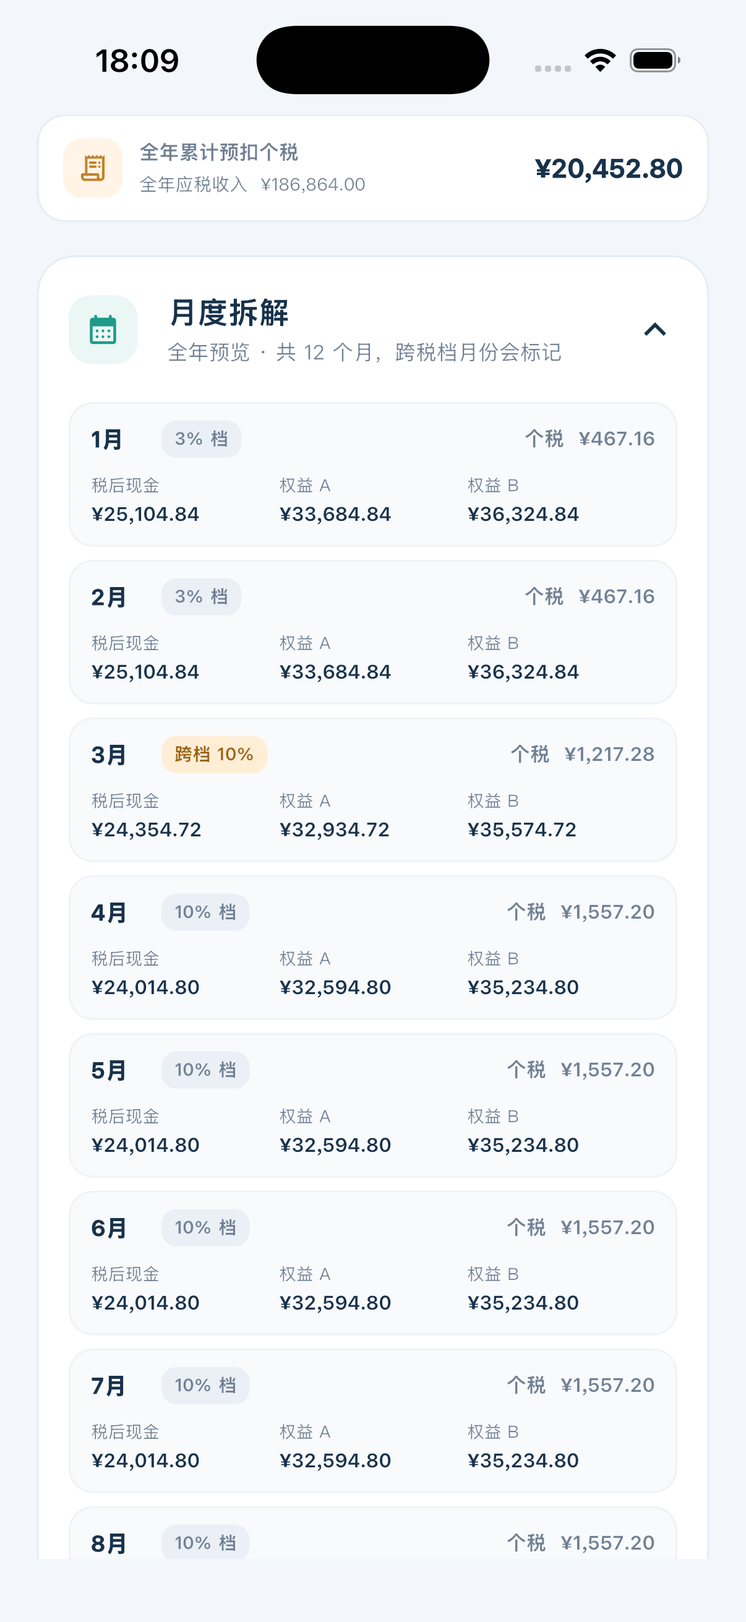
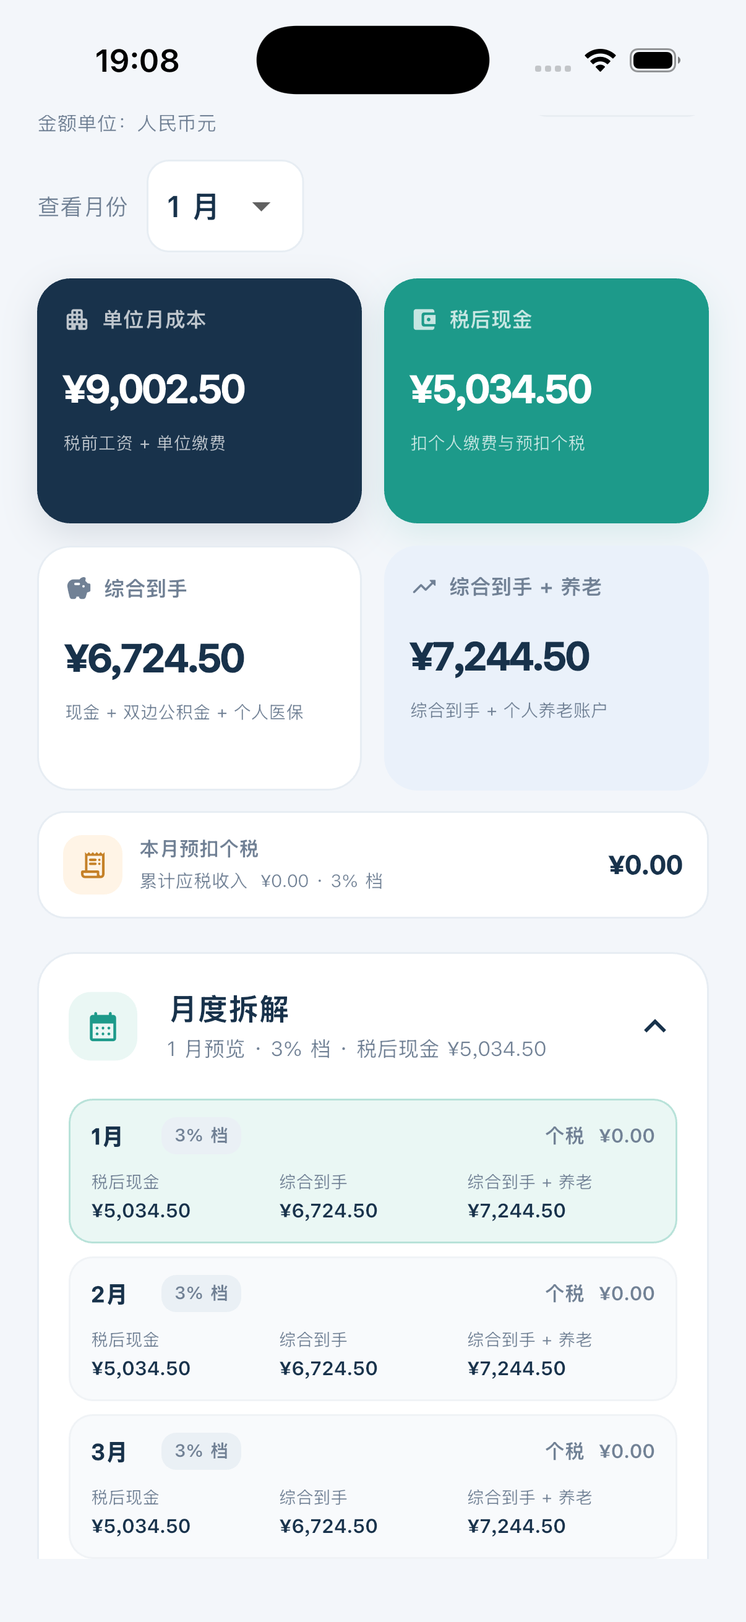
Rename annual benefit metrics

diff --git a/lib/features/calculator/calculator_screen.dart b/lib/features/calculator/calculator_screen.dart
@@ -843,7 +843,7 @@ class _CalculatorScreenState extends ConsumerState<CalculatorScreen> {
                   SizedBox(
                     width: cardWidth,
                     child: _MetricCard(
-                      label: _annualView ? '全年权益 A' : '权益 A',
+                      label: _annualView ? '全年综合到手' : '综合到手',
                       value: formatCents(benefitA),
                       icon: Icons.savings_rounded,
                       tone: _MetricTone.white,
@@ -853,11 +853,11 @@ class _CalculatorScreenState extends ConsumerState<CalculatorScreen> {
                   SizedBox(
                     width: cardWidth,
                     child: _MetricCard(
-                      label: _annualView ? '全年权益 B' : '权益 B',
+                      label: _annualView ? '全年综合到手 + 养老' : '综合到手 + 养老',
                       value: formatCents(benefitB),
                       icon: Icons.trending_up_rounded,
                       tone: _MetricTone.blue,
-                      helper: '权益 A + 个人养老账户',
+                      helper: '综合到手 + 个人养老账户',
                     ),
                   ),
                 ],
@@ -983,7 +983,7 @@ class _CalculatorScreenState extends ConsumerState<CalculatorScreen> {
             style: TextStyle(color: _navy, fontWeight: FontWeight.w700),
           ),
           subtitle: Text(
-            '${annual ? '全年合计' : '$_month 月'} · 费率与权益组成',
+            '${annual ? '全年合计' : '$_month 月'} · 费率与综合到手组成',
             style: const TextStyle(color: _muted, fontSize: 11),
           ),
           children: <Widget>[
@@ -1097,7 +1097,7 @@ class _CalculatorScreenState extends ConsumerState<CalculatorScreen> {
             ),
             const SizedBox(height: 15),
             _DetailGroup(
-              title: '权益组成',
+              title: '综合到手组成',
               rows: <_DetailLine>[
                 _DetailLine(
                   '个人养老保险 · 8%',
@@ -1144,7 +1144,7 @@ class _CalculatorScreenState extends ConsumerState<CalculatorScreen> {
                       : formatRate(month.taxBracketRateBps),
                 ),
                 _DetailLine(
-                  '权益 A',
+                  '综合到手',
                   amount(result.annualBenefitACents, month.benefitACents),
                   strong: true,
                 ),
@@ -1156,7 +1156,7 @@ class _CalculatorScreenState extends ConsumerState<CalculatorScreen> {
                   ),
                 ),
                 _DetailLine(
-                  '权益 B',
+                  '综合到手 + 养老',
                   amount(result.annualBenefitBCents, month.benefitBCents),
                   strong: true,
                 ),
@@ -1584,13 +1584,13 @@ class _MonthRow extends StatelessWidget {
                   ),
                   Expanded(
                     child: _MiniAmount(
-                      label: '权益 A',
+                      label: '综合到手',
                       value: formatCents(month.benefitACents),
                     ),
                   ),
                   Expanded(
                     child: _MiniAmount(
-                      label: '权益 B',
+                      label: '综合到手 + 养老',
                       value: formatCents(month.benefitBCents),
                     ),
                   ),

diff --git a/lib/features/calculator/saved_calculation_detail_screen.dart b/lib/features/calculator/saved_calculation_detail_screen.dart
@@ -44,12 +44,12 @@ class SavedCalculationDetailScreen extends StatelessWidget {
             ),
             const SizedBox(height: 10),
             _SummaryCard(
-              title: '全年权益 A',
+              title: '全年综合到手',
               value: formatCents(calculation.annualBenefitACents),
             ),
             const SizedBox(height: 10),
             _SummaryCard(
-              title: '全年权益 B',
+              title: '全年综合到手 + 养老',
               value: formatCents(calculation.annualBenefitBCents),
             ),
             const SizedBox(height: 12),
@@ -120,7 +120,7 @@ class SavedCalculationDetailScreen extends StatelessWidget {
             ),
             const SizedBox(height: 14),
             const Text(
-              '结果为保存时的快照，不会随当前测算参数变化。费率和当地缴费上下限可能造成实际差异。',
+              '综合到手 = 税后现金 + 双边公积金 + 个人医保入账；“+ 养老”再计入个人养老账户。这里包含账户缴存，不等于全部可立即支取。结果是保存时的快照；费率和当地缴费上下限可能造成实际差异。',
               style: TextStyle(color: _detailMuted, fontSize: 11, height: 1.5),
             ),
           ],

diff --git a/lib/features/calculator/calculation_history_screen.dart b/lib/features/calculator/calculation_history_screen.dart
@@ -198,12 +198,12 @@ class _HistoryCard extends StatelessWidget {
                 crossAxisAlignment: CrossAxisAlignment.end,
                 children: <Widget>[
                   const Text(
-                    '全年税后现金',
+                    '全年综合到手',
                     style: TextStyle(color: _historyMuted, fontSize: 10),
                   ),
                   const SizedBox(height: 2),
                   Text(
-                    formatCents(calculation.annualNetCashCents),
+                    formatCents(calculation.annualBenefitACents),
                     style: const TextStyle(
                       color: _historyTeal,
                       fontSize: 12,

diff --git a/doc/薪酬测算Flutter研发实现文档.md b/doc/薪酬测算Flutter研发实现文档.md
@@ -12,7 +12,7 @@
 
 ## 2. 研发目标
 
-交付一个离线薪酬计算器：内置默认参数，支持编辑月工资、专项附加扣除、社保基数、公积金比例和工伤保险费率；按累计预扣法计算 12 个月个税；展示单位成本、税后现金、权益 A 和权益 B。
+交付一个离线薪酬计算器：内置默认参数，支持编辑月工资、专项附加扣除、社保基数、公积金比例和工伤保险费率；按累计预扣法计算 12 个月个税；展示单位成本、税后现金、综合到手和综合到手 + 养老。
 
 计算核心必须与 Flutter UI 解耦，使用定点金额运算，结果能从输入参数和规则版本重新计算。首版不接服务端，不实现账号、多方案或地区费率管理。
 
@@ -137,7 +137,7 @@
 | taxBracketRateBps / quickDeductionCents | 本月对应税档参数 |
 | cumulativeTaxDueCents / monthlyTaxCents | 累计应纳税额与当月预扣税 |
 | netCashCents | 当月税后现金 |
-| benefitACents / benefitBCents | 当月权益 A、权益 B |
+| benefitACents / benefitBCents | 当月“综合到手”和“综合到手 + 养老”结果（内部字段名保留） |
 | employerTotalCostCents | 单位月成本 |
 
 ### 6.3 CalculationResult
@@ -183,11 +183,11 @@ CalculationResult calculate(CalculatorInputs inputs, TaxAndContributionRules rul
 | 960,000 元 | 35% | 85,920 元 |
 | 无上限 | 45% | 181,920 元 |
 
-### 7.3 权益及年度汇总
+### 7.3 综合到手及年度汇总
 
-- 权益 A = 税后现金 + 单位公积金 + 个人公积金 + 个人医疗缴费金额。
-- 权益 B = 权益 A + 个人养老缴费金额。
-- 单位成本、税后现金、权益 A、权益 B 的全年值，分别为 12 个月对应结果相加。
+- 综合到手 = 税后现金 + 单位公积金 + 个人公积金 + 个人医疗缴费金额。
+- 综合到手 + 养老 = 综合到手 + 个人养老缴费金额。
+- 单位成本、税后现金、综合到手、综合到手 + 养老的全年值，分别为 12 个月对应结果相加。
 - 失业保险和大病统筹不计入权益；工伤由单位缴纳，不计入个人权益。
 
 ### 7.4 33,000 元回归基准
@@ -207,8 +207,8 @@ CalculationResult calculate(CalculatorInputs inputs, TaxAndContributionRules rul
 | 当月新增应税收入 | 15,572.00 元 |
 | 全年个税 | 20,452.80 元 |
 | 全年税后现金 | 286,411.20 元 |
-| 全年权益 A | 389,371.20 元 |
-| 全年权益 B | 421,051.20 元 |
+| 全年综合到手 | 389,371.20 元 |
+| 全年综合到手 + 养老 | 421,051.20 元 |
 
 月度税额档位应为：1–2 月 3%，3–9 月 10%，10–12 月 20%。预扣税分别见 [产品设计文档的默认演示表](薪酬测算Flutter产品设计文档.md#64-33000-元默认方案的演示基准)。
 
@@ -225,7 +225,7 @@ CalculationResult calculate(CalculatorInputs inputs, TaxAndContributionRules rul
 ### 8.1 历史测算
 
 - 使用独立的 SharedPreferences 字符串列表键 `salary_calculator.history.v1`，与当前参数设置分开保存。
-- 每条记录包含 schemaVersion、唯一 ID、保存时间、CalculatorInputs 快照、rulesVersion 及单位成本、税后现金、权益、税额和公积金年度合计。
+- 每条记录包含 schemaVersion、唯一 ID、保存时间、CalculatorInputs 快照、rulesVersion 及单位成本、税后现金、两种综合到手结果、税额和公积金年度合计。
 - App 启动时加载历史记录，跳过格式错误的单条数据并按保存时间倒序展示。
 - 保存、单条删除和清空全部均先更新界面状态，再异步写入本地；写入失败时恢复原状态并提示用户。
 - 列表中的删除按钮和“清空”入口均弹出确认框；清空完成后显示空状态。
@@ -243,7 +243,7 @@ CalculationResult calculate(CalculatorInputs inputs, TaxAndContributionRules rul
 
 计算器页面通过透明点击区域监听空白处点按，并取消当前焦点以收起键盘；输入框和按钮保留各自点击行为。
 
-首版页面包括参数卡片、四项结果卡片、全年/月份选择、可折叠的月度拆解卡片、计算依据展开区和测算说明。月度拆解在收起时展示全年或当前所选月份的摘要，展开后列出 12 个月的税额、税后现金、权益和税档；点击月份行切换到对应的月度结果。工伤保险费率在参数区提供独立百分比输入，默认 0.2%；修改后立即重算单位工伤缴费和单位总成本。专项附加扣除、公积金比例和工伤费率标题旁提供信息按钮，点按后以 Markdown 弹窗预览随包提供的国家规则文件；文档中的 http/https 链接调用系统浏览器打开。小屏两列或单列布局，所有输入控件提供语义标签。
+首版页面包括参数卡片、四项结果卡片、全年/月份选择、可折叠的月度拆解卡片、计算依据展开区和测算说明。月度拆解在收起时展示全年或当前所选月份的摘要，展开后列出 12 个月的税额、税后现金、综合到手和税档；点击月份行切换到对应的月度结果。工伤保险费率在参数区提供独立百分比输入，默认 0.2%；修改后立即重算单位工伤缴费和单位总成本。专项附加扣除、公积金比例和工伤费率标题旁提供信息按钮，点按后以 Markdown 弹窗预览随包提供的国家规则文件；文档中的 http/https 链接调用系统浏览器打开。小屏两列或单列布局，所有输入控件提供语义标签。
 
 参数卡片提供“保存本次”和“历史记录 N”两个入口；保存按钮在输入草稿无效时禁用。历史列表提供单条删除和清空全部确认，点击记录进入只读的结果概览页。
 
@@ -265,7 +265,7 @@ CalculationResult calculate(CalculatorInputs inputs, TaxAndContributionRules rul
 
 ### 11.1 计算单元测试
 
-- 17,000、20,000、30,500、33,000 元四组演示年度税额、现金、权益 A/B。
+- 17,000、20,000、30,500、33,000 元四组演示年度税额、现金、综合到手 / 综合到手 + 养老。
 - 33,000 元逐月税档、个税和年度合计。
 - 社保基数跟随工资；自定义基数低于或高于工资。
 - 公积金比例变更对个人扣款、单位成本、税额及权益的影响。
@@ -322,7 +322,7 @@ CalculationResult calculate(CalculatorInputs inputs, TaxAndContributionRules rul
 | 地区社保、公积金费率及上下限不同 | MVP 固定使用来源文档费率并展示假设；后续增加地区模板 |
 | 税务规则年度变化 | 将税表和规则版本化；正式发布前由产品确认适用年份 |
 | 源文档某列名称与数值含义不一致 | 以缴费率和逐月明细交叉校验，按第 7.4 节拆分扣款 |
-| 个人医保实际入账口径因地区不同 | 首版按个人医疗缴费金额计入权益 A，并明确这是估算口径 |
+| 个人医保实际入账口径因地区不同 | 首版按个人医疗缴费金额计入综合到手，并明确这是估算口径 |
 | 将权益误解为可支取现金 | 将现金、权益分开展示，并标注养老、公积金的流动性差异 |
 
 后续可按优先级增加地区模板和上下限、逐项专项附加扣除、逐月工资变化、奖金计算、多方案对比、导出和云同步。

diff --git a/doc/薪酬测算Flutter产品设计文档.md b/doc/薪酬测算Flutter产品设计文档.md
@@ -36,7 +36,7 @@
 
 - 默认参数开箱即用，无需注册或联网。
 - 所有主要参数可见、可修改，结果变更及时反馈。
-- 同屏展示单位成本、税后现金、权益 A、权益 B。
+- 同屏展示单位成本、税后现金、综合到手、综合到手 + 养老。
 - 提供全年累计预扣明细和可读的计算拆解。
 - 可保存当前参数及结果快照，并通过历史列表回看。
 - 33,000 元默认方案与《薪酬计算.md》的演示结果相符。
@@ -109,10 +109,10 @@
 |---|---|---|
 | 单位成本 | A + 单位社保 + 单位公积金 | 12 个月单位成本之和 |
 | 税后现金 | A - 个人扣款合计 - 当月预扣个税 | 12 个月税后现金之和 |
-| 权益 A | 税后现金 + 单位公积金 + 个人公积金 + 个人医疗缴费金额 | 12 个月权益 A 之和 |
-| 权益 B | 权益 A + 个人养老缴费金额 | 12 个月权益 B 之和 |
+| 综合到手 | 税后现金 + 单位公积金 + 个人公积金 + 个人医疗缴费金额 | 12 个月该指标之和 |
+| 综合到手 + 养老 | 综合到手 + 个人养老缴费金额 | 12 个月该指标之和 |
 
-权益 A、权益 B 是便于比较的测算口径，不代表全部金额都可立即支取。养老保险个人账户流动性较低；个人医保及公积金的实际使用、提取受政策和个人账户规则影响。
+“综合到手”和“综合到手 + 养老”是便于比较的测算口径，不代表全部金额都可立即支取。养老保险个人账户流动性较低；个人医保及公积金的实际使用、提取受政策和个人账户规则影响。
 
 ### 6.4 33,000 元默认方案的演示基准
 
@@ -124,12 +124,12 @@
 | 全年累计应纳税所得额 | 186,864 元 |
 | 全年个税 | 20,452.80 元 |
 | 全年税后现金 | 286,411.20 元 |
-| 全年权益 A | 389,371.20 元 |
-| 全年权益 B | 421,051.20 元 |
+| 全年综合到手 | 389,371.20 元 |
+| 全年综合到手 + 养老 | 421,051.20 元 |
 
 月度演示数据：
 
-| 月份 | 当月个税 | 税后现金 | 权益 A | 权益 B |
+| 月份 | 当月个税 | 税后现金 | 综合到手 | 综合到手 + 养老 |
 |---|---:|---:|---:|---:|
 | 1–2 月 | 467.16 元 | 25,104.84 元 | 33,684.84 元 | 36,324.84 元 |
 | 3 月 | 1,217.28 元 | 24,354.72 元 | 32,934.72 元 | 35,574.72 元 |
@@ -147,13 +147,13 @@ MVP 以单页计算器为主，另提供历史列表和结果概览辅助页：
 
 1. 顶部：产品名称、默认值恢复入口。
 2. 参数区：税前工资、专项附加扣除、社保基数、公积金基数、公积金比例和工伤费率；可保存本次测算并进入历史列表。
-3. 结果区：单位成本、税后现金、权益 A、权益 B 四张指标卡。
+3. 结果区：单位成本、税后现金、综合到手、综合到手 + 养老 四张指标卡。
 4. 结果范围切换：全年 / 月度；月度模式提供 1–12 月选择器。
-5. 月度拆解卡片：默认折叠，显示全年或当前所选月份的预览；展开后列出 12 个月的个税、到手现金、权益 A、权益 B 和税档。
-6. 计算依据：可展开查看单位和个人缴费、累计应税收入、税率及权益构成。
+5. 月度拆解卡片：默认折叠，显示全年或当前所选月份的预览；展开后列出 12 个月的个税、到手现金、综合到手、综合到手 + 养老 和税档。
+6. 计算依据：可展开查看单位和个人缴费、累计应税收入、税率及综合到手组成。
 7. 说明区：测算口径、地区差异和非正式工资单提示。
 
-历史列表和结果概览通过计算器页面按钮进入。列表按保存时间倒序展示工资、社保和公积金基数及全年税后现金；点击记录打开只读的结果概览页。每项支持单条删除，列表提供清空全部操作，两种删除均需用户确认。
+历史列表和结果概览通过计算器页面按钮进入。列表按保存时间倒序展示工资、社保和公积金基数及全年综合到手；点击记录打开只读的结果概览页。每项支持单条删除，列表提供清空全部操作，两种删除均需用户确认。
 
 ### 7.2 首屏层级
 
@@ -180,7 +180,7 @@ MVP 以单页计算器为主，另提供历史列表和结果概览辅助页：
 - 全年视图显示四项年度总和；月度拆解卡片可折叠或展开，折叠时显示全年预览，展开后提供 12 个月的逐月明细。
 - 月度视图显示选定月份四项指标和当月个税；折叠的月度拆解卡片预览所选月份，展开后仍可查看完整逐月列表，点击月份即可切换结果。
 - 当累计应纳税所得额跨档时，在该月标记“进入 X% 档”，并可在计算依据解释变化来源。
-- 点击权益 A 或权益 B 查看组成；权益 B 中的个人养老账户单独标出。
+- 点击“综合到手”或“综合到手 + 养老”查看组成；“综合到手 + 养老”中的个人养老账户单独标出。
 - 当社保基数不是工资全额时，在结果附近显示“自定义社保基数”提示。
 
 ## 8. 校验、提示和异常状态
@@ -207,7 +207,7 @@ MVP 以单页计算器为主，另提供历史列表和结果概览辅助页：
 
 - 首次打开即显示 33,000 元默认工资、5,000 元专项附加扣除、12% 公积金比例及跟随工资的社保基数。
 - 工资、扣除额、缴费比例、社保基数、公积金基数和工伤费率均可编辑；编辑后核心指标和逐月税额即时刷新。
-- 用户能切换全年和任一月份，看到单位成本、税后现金、权益 A、权益 B。
+- 用户能切换全年和任一月份，看到单位成本、税后现金、综合到手、综合到手 + 养老。
 - 四个规则信息按钮均打开正确的规则弹窗；Markdown 中的官方链接可打开。
 - 公积金基数默认跟随社保基数；社保基数切换工资/自定义后联动金额正确，自定义公积金基数不再联动，结果拆解显示基数和来源。
 - 有效测算可保存为历史快照；保存后从历史列表打开的结果概览与原保存参数一致，不随当前输入变化。
@@ -215,8 +215,8 @@ MVP 以单页计算器为主，另提供历史列表和结果概览辅助页：
 - 工伤保险费率默认 0.2%，用户修改后单位缴费和单位总成本即时更新；个人扣款不受影响。
 - 月度拆解卡片支持折叠和展开；折叠态按当前结果模式显示预览，展开态列出 12 个月并支持点选月份。
 - 默认方案四项全年结果符合第 6.4 节，逐月税档变化符合演示数据。
-- 计算依据能解释个人与单位缴费、累计预扣税额、权益组成。
-- 个人医保进入权益 A；个人养老账户只额外进入权益 B。
+- 计算依据能解释个人与单位缴费、累计预扣税额、综合到手组成。
+- 个人医保进入综合到手；个人养老账户只额外进入综合到手 + 养老。
 - 恢复默认、当前参数本地保存和历史快照管理可用，离线状态下功能完整。
 - 页面明确区分测算结果与正式工资单。
 

diff --git a/README.md b/README.md
@@ -27,16 +27,16 @@
 ## 功能
 
 - **即时薪酬测算**：编辑月税前工资、每月专项附加扣除、社保基数、公积金基数及缴费比例，结果随输入更新。
-- **保存历史测算**：点击“保存本次”保存当时的测算参数和结果快照；可在历史列表查看、打开独立结果概览、删除单条记录或清空全部记录。
+- **保存历史测算**：点击“保存本次”保存当时的测算参数和结果快照；历史列表显示全年综合到手，可打开独立结果概览、删除单条记录或清空全部记录。
 - **公积金基数独立设置**：默认跟随当前社保基数（社保可跟随税前工资或自定义），也可单独自定义公积金基数；页面显示联动来源和当前计算金额。
 - **自定义工伤费率**：单位工伤保险费率可编辑，默认演示值为 0.2%。
 - **国家规则速查**：专项附加扣除、公积金比例、公积金基数和工伤费率旁的信息按钮可打开 Markdown 规则说明，并通过官方链接查看完整政策。
 - **便捷键盘操作**：点击页面空白区域即可收起输入键盘。
 - **灵活设置缴费基数**：社保基数可以跟随工资，也可以自定义；应用不会自动套用地区缴费上下限。
-- **查看全年或逐月结果**：查看全年汇总或选择月份，包含个税、税后现金和权益变化；跨越个税档位的月份会特别标记。
-- **折叠月度拆解**：默认以全年或当前所选月份作为预览；展开后查看 12 个月的个税、税后现金、权益和税档，并可点选月份切换结果。
-- **拆解收入与缴费**：展开“计算依据”查看个人扣款、单位缴费、累计应税收入、预扣税额和权益组成。
-- **对比两种权益口径**：权益 A 为税后现金加双边公积金和个人医疗缴费；权益 B 再加个人养老缴费。
+- **查看全年或逐月结果**：查看全年汇总或选择月份，包含个税、税后现金和综合到手变化；跨越个税档位的月份会特别标记。
+- **折叠月度拆解**：默认以全年或当前所选月份作为预览；展开后查看 12 个月的个税、税后现金、综合到手和税档，并可点选月份切换结果。
+- **拆解收入与缴费**：展开“计算依据”查看个人扣款、单位缴费、累计应税收入、预扣税额和综合到手组成。
+- **对比两种综合口径**：综合到手包含税后现金、双边公积金和个人医保入账；综合到手 + 养老再计入个人养老账户。
 - **离线使用并保存数据**：当前参数与历史测算保存在设备本地，重新打开后仍可查看；可恢复默认参数。
 - **内置算法文档**：在应用中查看费率假设、累计预扣法、税率表、速算扣除数和适用范围。
 
@@ -51,7 +51,7 @@
 | 公积金比例 | 12%（单位和个人各缴一份） |
 | 工伤保险费率 | 默认 0.2%（可自定义） |
 
-固定月薪按完整 12 个月测算。默认参数下，全年单位成本为 **¥548,460.00**，全年税后现金为 **¥286,411.20**，全年权益 A 为 **¥389,371.20**，全年权益 B 为 **¥421,051.20**，全年预扣个税为 **¥20,452.80**。
+固定月薪按完整 12 个月测算。默认参数下，全年单位成本为 **¥548,460.00**，全年税后现金为 **¥286,411.20**，全年综合到手为 **¥389,371.20**，全年综合到手 + 养老为 **¥421,051.20**，全年预扣个税为 **¥20,452.80**。
 
 ## 计算口径与适用范围
 

diff --git a/doc/薪酬计算.md b/doc/薪酬计算.md
@@ -27,8 +27,8 @@
 | 4 | 累计预扣个税 | `累计T × 预扣率 − 年度速算扣除数` |
 | 5 | 当月应交个税 | `累计预扣个税 − 本年已预缴` |
 | 6 | 到手现金 | `(0.775a − 3) − 当月个税` |
-| 7 | 综合权益 A（不含养老个人账户） | `现金 + 0.26a`（双边公积金 0.24a + 医保个人 0.02a） |
-| 8 | 综合权益 B（含养老个人账户） | `现金 + 0.34a`（A + 养老个人 0.08a） |
+| 7 | 综合到手（不含养老个人账户） | `现金 + 0.26a`（双边公积金 0.24a + 医保个人 0.02a） |
+| 8 | 综合到手 + 养老（含养老个人账户） | `现金 + 0.34a`（综合到手部分 0.26a + 个人养老 0.08a） |
 
 > T ≤ 0 时当月无个税，累计 T 不增加。`10003 = 起征点 5000 + 专项附加 5000 + 大病 3`。
 
@@ -57,7 +57,7 @@
 
 ### 5.1 四档速查
 
-| 税前 a | 单位月成本 | 月扣五险一金 | 当月新增 T | 全年个税 | 全年现金 | 权益 A | 权益 B |
+| 税前 a | 单位月成本 | 月扣五险一金 | 当月新增 T | 全年个税 | 全年现金 | 综合到手 | 综合到手 + 养老 |
 | ---: | ---: | ---: | ---: | ---: | ---: | ---: | ---: |
 | 17,000 | 23,545 | 13,172 | 3,172 | 1,286.40 | 156,777.60 | 209,817.60 | 226,137.60 |
 | 20,000 | 27,700 | 15,497 | 5,497 | 4,076.40 | 181,887.60 | 244,287.60 | 263,487.60 |
@@ -66,7 +66,7 @@
 
 ### 5.2 a = 17,000
 
-| 月份 | 累计 T | 档位 | 当月个税 | 当月现金 | 当月权益 A | 当月权益 B |
+| 月份 | 累计 T | 档位 | 当月个税 | 当月现金 | 当月综合到手 | 当月综合到手 + 养老 |
 | --- | ---: | --- | ---: | ---: | ---: | ---: |
 | 1–11 | 3,172 → 34,892 | 3% | 95.16 | 13,076.84 | 17,496.84 | 18,856.84 |
 | 12 | 38,064 | 10%（跨档） | 239.64 | 12,932.36 | 17,352.36 | 18,712.36 |
@@ -75,7 +75,7 @@
 
 ### 5.3 a = 20,000
 
-| 月份 | 累计 T | 档位 | 当月个税 | 当月现金 | 当月权益 A | 当月权益 B |
+| 月份 | 累计 T | 档位 | 当月个税 | 当月现金 | 当月综合到手 | 当月综合到手 + 养老 |
 | --- | ---: | --- | ---: | ---: | ---: | ---: |
 | 1–6 | 5,497 → 32,982 | 3% | 164.91 | 15,332.09 | 20,532.09 | 22,132.09 |
 | 7 | 38,479 | 10%（跨档） | 338.44 | 15,158.56 | 20,358.56 | 21,958.56 |
@@ -85,7 +85,7 @@
 
 ### 5.4 a = 30,500
 
-| 月份 | 累计 T | 档位 | 当月个税 | 当月现金 | 当月权益 A | 当月权益 B |
+| 月份 | 累计 T | 档位 | 当月个税 | 当月现金 | 当月综合到手 | 当月综合到手 + 养老 |
 | --- | ---: | --- | ---: | ---: | ---: | ---: |
 | 1–2 | 13,634.50 → 27,269 | 3% | 409.04 | 23,225.46 | 31,155.46 | 33,595.46 |
 | 3 | 40,903.50 | 10%（跨档） | 752.28 | 22,882.22 | 30,812.22 | 33,252.22 |
@@ -98,7 +98,7 @@
 
 ### 5.5 a = 33,000
 
-| 月份 | 累计 T | 档位 | 当月个税 | 当月现金 | 当月权益 A | 当月权益 B |
+| 月份 | 累计 T | 档位 | 当月个税 | 当月现金 | 当月综合到手 | 当月综合到手 + 养老 |
 | --- | ---: | --- | ---: | ---: | ---: | ---: |
 | 1–2 | 15,572 → 31,144 | 3% | 467.16 | 25,104.84 | 33,684.84 | 36,324.84 |
 | 3 | 46,716 | 10%（跨档） | 1,217.28 | 24,354.72 | 32,934.72 | 35,574.72 |

diff --git a/doc/薪酬算法说明.md b/doc/薪酬算法说明.md
@@ -240,14 +240,14 @@
 
 在以上固定参数下，全年预扣个税为 `4,076.40 元`。实际结果可能因当地费率、社保基数上下限、实际专项附加扣除、入职月份、工资变化及年度汇算而不同。
 
-## 八、页面里的“权益 A / B”是什么
+## 八、页面里的“综合到手”和“综合到手 + 养老”是什么
 
 为了比较现金工资以外的待遇，页面提供两个测算指标：
 
-- **权益 A** = 到手现金 + 单位公积金 + 个人公积金 + 个人医疗缴费金额。
-- **权益 B** = 权益 A + 个人养老缴费金额。
+- **综合到手** = 税后现金 + 单位公积金 + 个人公积金 + 个人医保缴费金额。
+- **综合到手 + 养老** = 综合到手 + 个人养老缴费金额。
 
-这两个数是便于比较的模型指标，不是法定的“工资”或“个人资产”口径。公积金和养老保险的实际账户归属、可提取条件及待遇，按当地现行政策和个人账户记录为准；失业和工伤缴费不计入这两个指标。
+这两个数是便于比较的模型指标，不是法定的“工资”或“个人资产”口径，也不代表全部金额都能立即支取。公积金和养老保险的实际账户归属、可提取条件及待遇，按当地现行政策和个人账户记录为准；失业和工伤缴费不计入这两个指标。
 
 ## 九、官方口径与参考
 
